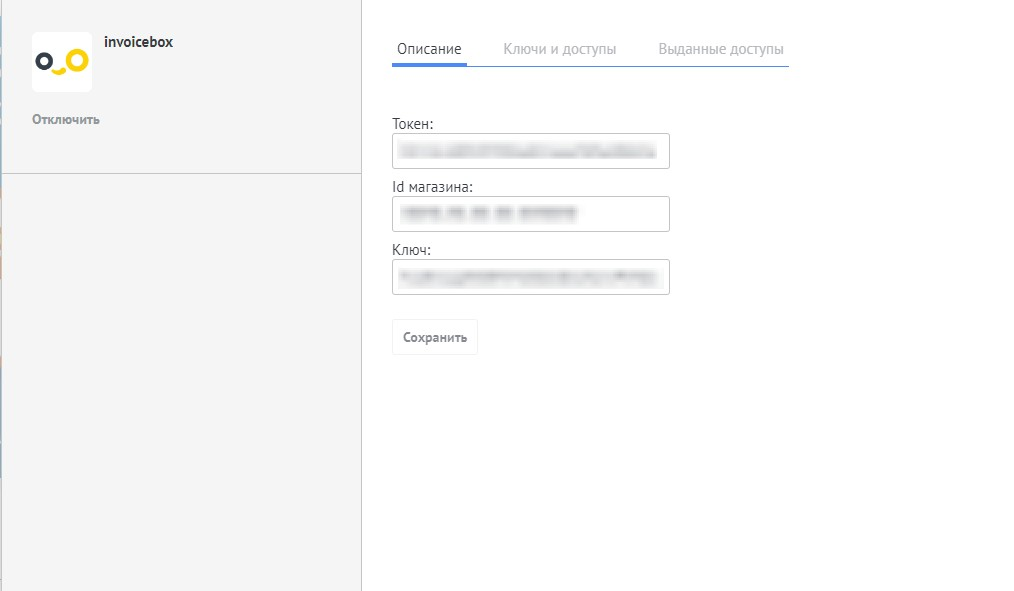
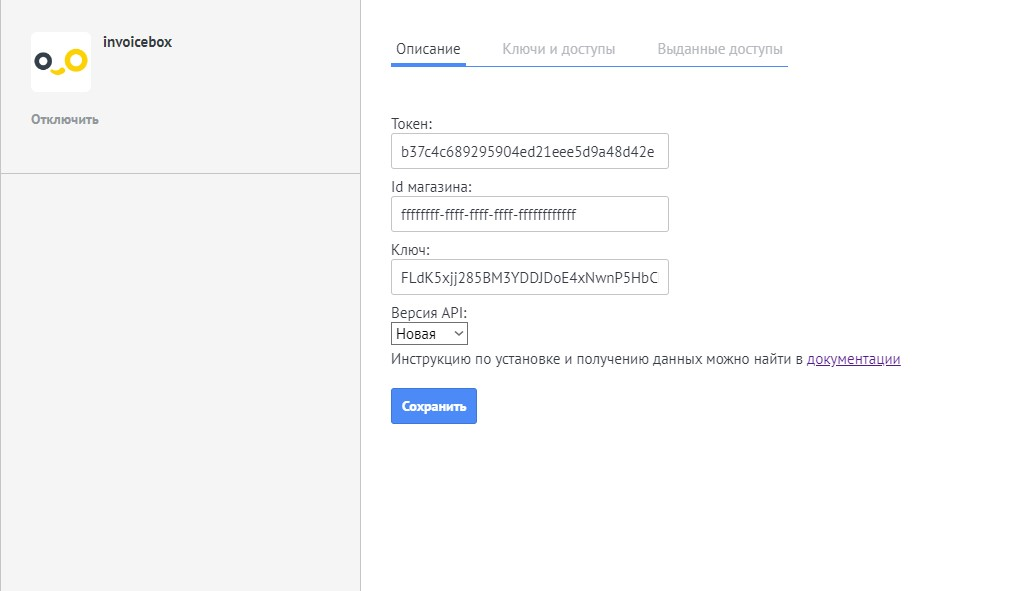
Обновление статьи по AmoCRM

diff --git a/docs/merchant/crm/amocrm.md b/docs/merchant/crm/amocrm.md
@@ -4,7 +4,7 @@ nav_order: 10
 title: "amoCRM"
 parent: "Модули для CRM"
 grand_parent: "Приём платежей"
-date: 2023-11-10 00:00:00 +0300
+date: 2024-02-08 13:00:00 +0300
 ---
 
 # Описание модуля amoCRM
@@ -21,7 +21,7 @@ date: 2023-11-10 00:00:00 +0300
 ![amoCRM](/assets/images/crm/amocrm/1.jpg){: .img}
 
 В настройках самого модуля необходимо указать апи-токен, id магазина и ключ. Все данные отправляются после заключения договора.
-Тестовые данные: 
+Тестовые данные для "новой" версии АПИ": 
 - Токен b37c4c689295904ed21eee5d9a48d42e
 - Id магазина ffffffff-ffff-ffff-ffff-ffffffffffff
 - Ключ FLdK5xjj285BM3YDDJDoE4xNwnP5HbCF
@@ -38,7 +38,8 @@ date: 2023-11-10 00:00:00 +0300
 
 ![amoCRM](/assets/images/crm/amocrm/4.jpg){: .img}
 
-**Обязательно нужно указать номер телефона, email и адрес. Без этих счетов счёт на оплату не будет сформирован**. По необходимости добавляем данные о компании
+**Обязательно нужно указать номер телефона и email. Без этих данных счёт на оплату не будет сформирован!**
+**При добавлении компании ИНН является обязательным полем!**
 
 ![amoCRM](/assets/images/crm/amocrm/6.jpg){: .img}
 
@@ -65,7 +66,6 @@ date: 2023-11-10 00:00:00 +0300
 
 
 
----
 
 
 

diff --git a/docs/merchant/cms/insales.md b/docs/merchant/cms/insales.md
@@ -10,7 +10,7 @@ date: 2023-11-14 00:00:00 +0300
 
 # Расширение Инвойсбокс для InSales
 
-Расширение доступно на тарифах Омни и Премиум.
+**Расширение доступно на тарифах Омни и Премиум.**
 
 ![InSales](/assets/images/cms/insales.png){: .img-right}
 
@@ -22,7 +22,8 @@ date: 2023-11-14 00:00:00 +0300
 
 ![InSales](/assets/images/cms/insales/2.jpg){: .img }
 
-3. Нужно ввести данные для интеграции, которые будут находиться в [личном кабинете](http://business.invoicebox.ru) после регистрации и заключения договора
+3. Нужно ввести данные для интеграции, которые будут находиться в [личном кабинете](http://business.invoicebox.ru) после регистрации и заключения договора.
+<br>
 Потребуется: Идентификатор магазина, Авторизационный токен (API токен в ЛК) и Ключ для проверки подписи запроса (API ключ в ЛК)
 
 ![InSales](/assets/images/cms/insales/3.jpg){: .img }

diff --git a/docs/merchant/cms/opencartv3.md b/docs/merchant/cms/opencartv3.md
@@ -158,6 +158,7 @@ date: 2023-11-03 00:00:00 +0300
 
 Возникшую при оплате ошибку можно узнать в истории заказа в админ-панели.
 
+**Url для уведомлений** http://ваш_домен/index.php?route=extension/payment/invoicebox/callback
 
 ### Причины возникновения ошибок при оплате
 Если при оплате возникает ошибка, в первую очередь стоит зайти в административную панель, в раздел заказов и открыть новый заказ. Чаще всего причина будет указана там.
